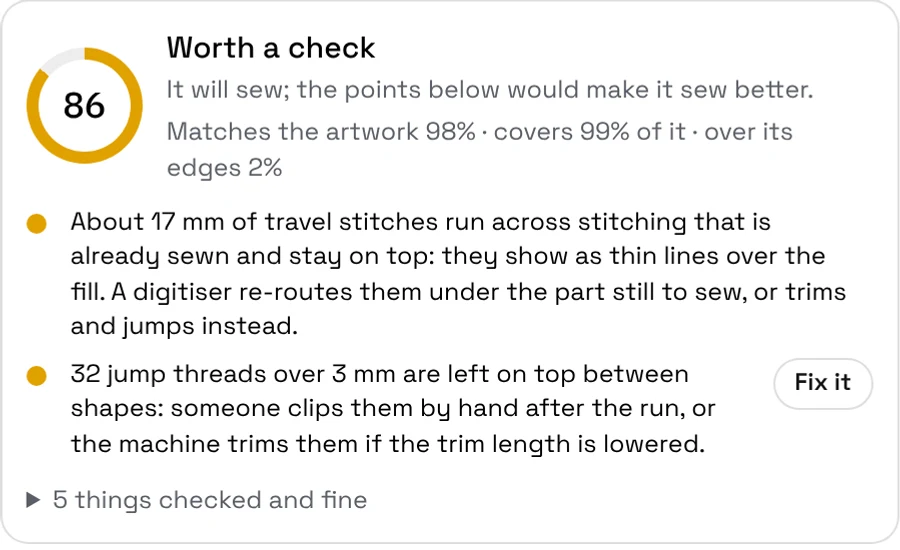
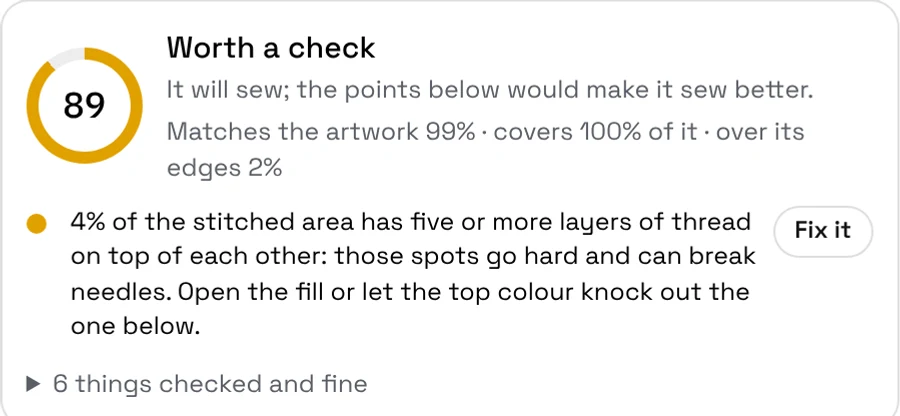
Embroidery: clean, straight edges and denser stitching by default
A distressed or scanned graphic's nicked, grainy edges were digitized as
they were, so satin borders and fill edges sewed ragged. Before cutting
shapes, the digitizer now cleans the artwork the way a digitiser redraws
it: a soft majority filter (0.3 mm) per thread, cracks and slivers under
0.45 mm folded into the colour round them, and specks under 1.5 mm².
A colour the clean-up would mostly erase (small lettering, a pinstripe)
is kept for the review. The ends of neighbouring rows are eased into a
line (at most 0.3 mm, so corners stay), and turning satin edges are
eased over about 0.8 mm.

Denser by default: fill rows 0.35 mm (was 0.40), satin rows 0.2 mm (was
0.22), satin up to 6 mm (was 7; wider strokes sew as fill). The studio's
embroidery window opens on these. On the demo crests the review goes
from 86 to 89, 48 to 72 and 72 to 86.

The Make page's sew-out video, review card and factory view are redone
with the new digitizer.

Claude-Session: https://claude.ai/code/session_017HhaG43tFnDLXHBBMSMfQq

diff --git a/src/lab-digitize.js b/src/lab-digitize.js
@@ -6,6 +6,10 @@
 //   Each plan point is { p: [x, y] } plus what it is: jump, trim, tie (a lock stitch), u (underlay), run (a travel run inside a shape), and o
 //   (the index of its shape in `objects`); the sew-out render and the review (src/lab-sewout.js) read these.
 // How a design is built:
+//   0. The artwork is cleaned the way a digitiser redraws it (`smoothMm`, 0 turns it off): each pixel goes to the thread most of its neighbourhood
+//      belongs to, so a distressed or scanned graphic's nicked, grainy edges sew as clean straight lines; cracks and slivers under 0.45 mm in a
+//      colour that covers a real area elsewhere are folded into their neighbour, and specks under 1.5 mm² go. A colour the clean-up would mostly
+//      erase is a fine detail of its own and is kept.
 //   1. The graphic is separated into thread colours (src/lab-separate.js): every colour that fills an area of its own, however small, keeps its
 //      thread; soft edges go to the nearer thread; a thread the colour of the garment is left unsewn (the garment shows through). Specks under
 //      0.6 mm² are folded into what surrounds them.
@@ -16,6 +20,7 @@
 //      stop at its edge, and at sharp corners, where one column runs through the corner and the next starts at its edge), and each column is walked with every stitch square to the line, its ends found by
 //      casting out to the shape's edge. The rows are spaced on the outside of a curve; on the inside, a needle point that would land on the last
 //      one is pulled in to a short stitch. When the centre line cannot be traced cleanly, the one angle is kept.
+//      The ends of neighbouring rows (fill and one-angle satin) are eased into a line, never more than 0.3 mm, so straight edges sew straight.
 //      Wider shapes are sewn as tatami fill: rows `rowMm` apart at `fillAngle`, needle points staggered over three rows so the fill shows no
 //      lines, over a tatami underlay at right angles, and the edges pushed out by the pull compensation.
 //   3. Shapes are cut into sections that can be sewn without crossing open ground, sewn nearest-first, each started and ended with a lock
@@ -24,12 +29,12 @@
 import sharp from 'sharp';
 import { separate } from './lab-separate.js';
 
-export const DIGITIZE_DEFAULTS = { widthIn: 4, rowMm: .4, satinSpacingMm: .22, stitchMm: 3.5, satinMaxMm: 7, splitMm: 7, pullMm: .2, underlay: true, fillAngle: 45, trimMm: 6, maxThreads: 12, garment: '' };
+export const DIGITIZE_DEFAULTS = { widthIn: 4, rowMm: .35, satinSpacingMm: .2, smoothMm: .3, stitchMm: 3.5, satinMaxMm: 6, splitMm: 7, pullMm: .2, underlay: true, fillAngle: 45, trimMm: 6, maxThreads: 12, garment: '' };
 
 // the settings from a request, each held to what a machine can sew
 export function digitizeOptions(b = {}) {
   const n = (v, a, z) => { const x = Number(v); return Number.isFinite(x) && v !== '' && v !== null ? Math.min(z, Math.max(a, x)) : undefined; };
-  return Object.fromEntries(Object.entries({ fillAngle: n(b.fillAngle, 0, 179), rowMm: n(b.rowMm, .25, 1), satinMaxMm: n(b.satinMaxMm, 2, 10), pullMm: n(b.pullMm, 0, .6), stitchMm: n(b.stitchMm, 2, 6), maxThreads: n(b.maxThreads, 1, 15), trimMm: n(b.trimMm, 1, 12), underlay: b.underlay === undefined ? undefined : Boolean(b.underlay) }).filter(([, v]) => v !== undefined));
+  return Object.fromEntries(Object.entries({ fillAngle: n(b.fillAngle, 0, 179), rowMm: n(b.rowMm, .25, 1), smoothMm: n(b.smoothMm, 0, 1), satinMaxMm: n(b.satinMaxMm, 2, 10), pullMm: n(b.pullMm, 0, .6), stitchMm: n(b.stitchMm, 2, 6), maxThreads: n(b.maxThreads, 1, 15), trimMm: n(b.trimMm, 1, 12), underlay: b.underlay === undefined ? undefined : Boolean(b.underlay) }).filter(([, v]) => v !== undefined));
 }
 
 // ---- shapes ----
@@ -56,6 +61,47 @@ function despeck(hard, W, H, minPx) {
     let best = -1, bv = 0; for (const [c, v] of votes) if (v > bv) { bv = v; best = c; }
     for (const p of r.px) hard[p] = best;
   }
+}
+// each pixel goes to the thread most of its neighbourhood belongs to (a majority over a soft round window, `r` px): a distressed or
+// scanned graphic has cracks, grain and nicks along its edges that a machine would sew as a ragged line; this leaves the edges clean and
+// straight where the artwork means them to be, and keeps any mark wider than about 2r
+function smoothLabels(hard, W, H, r) {
+  if (r < 1) return; const N = W * H, labels = [...new Set(hard)], best = new Float32Array(N).fill(-1), bestL = new Int16Array(N), a = new Float32Array(N), b = new Float32Array(N);
+  const blur = (src, dst, horiz) => { const len = horiz ? W : H, lines = horiz ? H : W, st = horiz ? 1 : W, ls = horiz ? W : 1, k = 2 * r + 1;
+    for (let l = 0; l < lines; l++) { const base = l * ls; let sum = 0; for (let i = -r; i <= r; i++) sum += src[base + Math.min(len - 1, Math.max(0, i)) * st];
+      for (let i = 0; i < len; i++) { dst[base + i * st] = sum / k; sum += src[base + Math.min(len - 1, i + r + 1) * st] - src[base + Math.max(0, i - r) * st]; } } };
+  for (const L of labels) {
+    for (let p = 0; p < N; p++) a[p] = hard[p] === L ? 1 : 0;
+    blur(a, b, true); blur(b, a, false); blur(a, b, true); blur(b, a, false); // two box passes: close to a gaussian, so corners round only a little
+    for (let p = 0; p < N; p++) { const v = a[p] + (hard[p] === L ? 1e-4 : 0); if (v > best[p]) { best[p] = v; bestL[p] = L; } }
+  }
+  // a colour the clean-up would mostly erase is a fine detail of its own (small lettering, a pinstripe), not grain: it keeps its pixels, and the
+  // review says if it is too small to sew
+  const before = new Map(), after = new Map(); for (let p = 0; p < N; p++) { before.set(hard[p], (before.get(hard[p]) || 0) + 1); after.set(bestL[p], (after.get(bestL[p]) || 0) + 1); }
+  const keep = new Set(labels.filter(L => (after.get(L) || 0) < .75 * before.get(L)));
+  for (let p = 0; p < N; p++) if (!keep.has(hard[p])) hard[p] = bestL[p];
+}
+// a sliver narrower than `minPx` (a crack, or grain left where two colours meet) cannot be sewn: it goes to the colour that borders it most,
+// as a digitiser would fold it into its neighbour. A colour with less than `bigPx` in all is a detail of its own and is left for the review
+function desliver(hard, W, H, minPx, bigPx) {
+  const regs = regionsOf(hard, W, H), total = new Map(); for (const r of regs) total.set(r.c, (total.get(r.c) || 0) + r.n);
+  for (const r of regs) {
+    if (r.c < 0 || total.get(r.c) < bigPx || widthOf(r, W).width >= minPx) continue; // only the cracks and grain of a colour that covers a real area elsewhere const votes = new Map();
+    for (const p of r.px) { const x = p % W; for (const q of [p - 1, p + 1, p - W, p + W]) { if (q < 0 || q >= W * H || (q === p - 1 && x === 0) || (q === p + 1 && x === W - 1)) continue; const c = hard[q]; if (c !== r.c) votes.set(c, (votes.get(c) || 0) + 1); } }
+    let best = r.c, bv = 0; for (const [c, v] of votes) if (v > bv) { bv = v; best = c; }
+    for (const p of r.px) hard[p] = best;
+  }
+}
+// the ends of neighbouring rows eased into a line: a row's end moves to the median of the five around it, then the mean of three, but never
+// further than `maxPx`, so a straight edge sews straight and a real corner stays a corner
+function easeRows(rows, maxPx) {
+  if (rows.length < 3) return;
+  for (const k of [0, 1]) {
+    const v = rows.map(q => q.r[k]), md = v.map((_, i) => { const w = v.slice(Math.max(0, i - 2), i + 3).sort((x, y) => x - y); return w[w.length >> 1]; });
+    const mn = md.map((_, i) => { const w = md.slice(Math.max(0, i - 1), i + 2); return w.reduce((x, y) => x + y, 0) / w.length; });
+    rows.forEach((q, i) => { const t = Math.abs(mn[i] - v[i]) <= maxPx ? mn[i] : v[i] + Math.sign(mn[i] - v[i]) * maxPx; q.r = k ? [q.r[0], t] : [t, q.r[1]]; });
+  }
+  for (const q of rows) if (q.r[1] < q.r[0]) q.r = [(q.r[0] + q.r[1]) / 2, (q.r[0] + q.r[1]) / 2];
 }
 // the widest point of a shape (twice its deepest inside distance), in pixels: a two-pass chamfer distance inside the shape's box
 function widthOf(r, W) {
@@ -199,7 +245,7 @@ function corners(cl, depth) {
 // one column of turning satin as needle points (px): its centre line smoothed and walked, at each step a ray out to either edge along the
 // normal, a row each time an edge has moved on by `step`; the needle alternates edges. With the underlay, a walk along the centre line first
 // and the satin back over it. → { pts, nu (the underlay's points, first) } or null
-function turningColumn(cl, inside, depth, { step, pullPx, splitPx, underlay, walkPx, gapPx }) {
+function turningColumn(cl, inside, depth, { step, pullPx, splitPx, underlay, walkPx, gapPx, easePx = step * 4 }) {
   let P = cl.pts; if (P.length < 3) return null;
   const n0 = P.length, cyc = cl.closed, r = Math.max(2, Math.round(Math.min(12, depth(P[n0 >> 1]) * .7))), fs = step / 3;
   for (let pass = 0; pass < 2; pass++) P = P.map((_, i) => { let sx = 0, sy = 0, c = 0; const k = cyc ? r : Math.min(r, i, n0 - 1 - i); for (let j = -k; j <= k; j++) { const q = P[cyc ? (i + j + n0) % n0 : i + j]; sx += q[0]; sy += q[1]; c++; } return [sx / c, sy / c]; });
@@ -227,7 +273,10 @@ function turningColumn(cl, inside, depth, { step, pullPx, splitPx, underlay, wal
     if (k) { C.push(...ext); T.push(...ext.map(() => t)); AB.push(...ab); } else { C.unshift(...ext.reverse()); T.unshift(...ext.map(() => t)); AB.unshift(...ab.reverse()); } }
   // the edges eased along the column (the shape's edge is a staircase of pixels), then the rows: the next one where either edge has moved on
   // by the satin spacing, so the outside of a curve is as dense as a straight column
-  const N = C.length, sm = AB.map((_, i) => { let a = 0, b = 0, c = 0; for (let j = -4; j <= 4; j++) { const q = AB[cyc ? (i + j + N) % N : i + j]; if (q) { a += q[0]; b += q[1]; c++; } } return [a / c, b / c]; });
+  // over about 0.8 mm each way: a median first, so a nick in the artwork's edge does not pull the column in, then a mean, so the edge runs smooth
+  const N = C.length, kw = Math.max(4, Math.round(easePx / fs)), win = (arr, i, f) => { const v = []; for (let j = -kw; j <= kw; j++) { const q = arr[cyc ? (i + j + N) % N : i + j]; if (q) v.push(f(q)); } return v; };
+  const mdAB = AB.map((_, i) => [0, 1].map(k => { const v = win(AB, i, q => q[k]).sort((x, y) => x - y); return v[v.length >> 1]; }));
+  const sm = mdAB.map((_, i) => [0, 1].map(k => { const v = win(mdAB, i, q => q[k]); return v.reduce((x, y) => x + y, 0) / v.length; }));
   const edges = [], mix = (p, q, f) => [p[0] + (q[0] - p[0]) * f, p[1] + (q[1] - p[1]) * f], adv = (e, k) => Math.max(Math.hypot(e.L[0] - k.L[0], e.L[1] - k.L[1]), Math.hypot(e.R[0] - k.R[0], e.R[1] - k.R[1]));
   let kept = null, pv = null;
   for (let i = 0; i < N; i++) { const c = C[i], nv = [-T[i][1], T[i][0]], [a, b] = sm[i]; if (a + b < 1) continue;
@@ -308,7 +357,9 @@ export async function digitize(png, opts = {}) {
   const { data } = await sharp(png).ensureAlpha().resize(W, H, { fit: 'fill' }).raw().toBuffer({ resolveWithObject: true });
   const sep = separate(data, W, H, { max: o.maxThreads, garment: o.garment, softPx: 2 });
   const hard = sep.hard; for (let p = 0; p < W * H; p++) if (hard[p] >= 0 && sep.inks[hard[p]].knockout) hard[p] = -1;
-  despeck(hard, W, H, Math.round(.6 * mmPx * mmPx));
+  smoothLabels(hard, W, H, Math.round((o.smoothMm || 0) * mmPx));
+  despeck(hard, W, H, Math.round((o.smoothMm ? 1.5 : .6) * mmPx * mmPx)); // with the clean-up on, specks of distress and grain under 1.5 mm² go too
+  if (o.smoothMm) desliver(hard, W, H, .45 * mmPx, 50 * mmPx * mmPx);
   const regs = regionsOf(hard, W, H), area = new Array(sep.inks.length).fill(0), label = new Int32Array(W * H).fill(-1);
   regs.forEach((r, i) => { area[r.c] += r.n; for (const p of r.px) label[p] = i; });
   const order = sep.inks.map((_, j) => j).filter(j => area[j] > 0).sort((a, b) => area[b] - area[a]);
@@ -322,14 +373,14 @@ export async function digitize(png, opts = {}) {
       const ang = crossAngle(mask, W, H, box, o.satinSpacingMm * mmPx), sc = scan(mask, W, H, box, ang, o.satinSpacingMm * mmPx, .5);
       // one angle serves a straight stroke; where its rows run along the stroke (a curve, a ring) the satin turns with the stroke instead
       let longest = 0; for (const l of sc.lines) for (const q of l.runs) longest = Math.max(longest, q[1] - q[0]);
-      const turn = longest > 1.5 * width + 2 && turning(dt, { step: o.satinSpacingMm * mmPx, pullPx: o.pullMm * mmPx, splitPx: o.splitMm * mmPx, underlay: o.underlay && widthMm > 1.2, walkPx: 2 * mmPx, gapPx: .15 * mmPx }, longest);
+      const turn = longest > 1.5 * width + 2 && turning(dt, { step: o.satinSpacingMm * mmPx, pullPx: o.pullMm * mmPx, splitPx: o.splitMm * mmPx, underlay: o.underlay && widthMm > 1.2, walkPx: 2 * mmPx, gapPx: .15 * mmPx, easePx: (o.smoothMm ? .8 : .27) * mmPx }, longest);
       if (turn) { shape.parts.push(...turn); shape.turning = true; }
-      else for (const s of sections(sc)) { const ul = o.underlay && widthMm > 1.2 && s.rows.length > 2, pts = satinSection(s, sc, { pullPx: o.pullMm * mmPx, splitPx: o.splitMm * mmPx, underlay: ul, walkPx: 2 * mmPx }); if (pts.length > 1) shape.parts.push({ pts, under: false, rev: !ul, nu: pts.nu || 0 }); }
+      else for (const s of sections(sc)) { easeRows(s.rows, .3 * mmPx); const ul = o.underlay && widthMm > 1.2 && s.rows.length > 2, pts = satinSection(s, sc, { pullPx: o.pullMm * mmPx, splitPx: o.splitMm * mmPx, underlay: ul, walkPx: 2 * mmPx }); if (pts.length > 1) shape.parts.push({ pts, under: false, rev: !ul, nu: pts.nu || 0 }); }
       shape.angle = ang;
     } else {
-      if (o.underlay) { const sc = scan(mask, W, H, box, o.fillAngle + 90, 2 * mmPx, .5); for (const s of sections(sc)) { const pts = fillSection(s, sc, { lenPx: 3 * mmPx, pullPx: 0, inset: .5 * mmPx }); if (pts.length > 1) shape.parts.push({ pts, under: true, rev: true }); } }
+      if (o.underlay) { const sc = scan(mask, W, H, box, o.fillAngle + 90, 2 * mmPx, .5); for (const s of sections(sc)) { easeRows(s.rows, .3 * mmPx); const pts = fillSection(s, sc, { lenPx: 3 * mmPx, pullPx: 0, inset: .5 * mmPx }); if (pts.length > 1) shape.parts.push({ pts, under: true, rev: true }); } }
       const sc = scan(mask, W, H, box, o.fillAngle, o.rowMm * mmPx, .5);
-      for (const s of sections(sc)) { const pts = fillSection(s, sc, { lenPx: o.stitchMm * mmPx, pullPx: o.pullMm * .75 * mmPx }); if (pts.length > 1) shape.parts.push({ pts, under: false, rev: true }); }
+      for (const s of sections(sc)) { easeRows(s.rows, .3 * mmPx); const pts = fillSection(s, sc, { lenPx: o.stitchMm * mmPx, pullPx: o.pullMm * .75 * mmPx }); if (pts.length > 1) shape.parts.push({ pts, under: false, rev: true }); }
       shape.angle = o.fillAngle;
     }
     for (const p of r.px) mask[p] = 0;

diff --git a/test/lab-digitize.test.js b/test/lab-digitize.test.js
@@ -118,19 +118,20 @@ test('turning satin: a ring and an S curve are sewn square to the stroke all the
 
 test('turning satin: a straight bar keeps its one angle, and branches and corners become columns of their own', async () => {
   const bar = await digitize(await svg('<svg xmlns="http://www.w3.org/2000/svg" width="800" height="400"><rect x="60" y="180" width="680" height="30" fill="#c8202a"/></svg>'), { widthIn: 4 });
-  assert.equal(bar.objects[0].angle, 90); assert.ok(!bar.objects[0].turning); assert.ok(bar.stats.stitches > 400 && bar.stats.stitches < 480, String(bar.stats.stitches));
+  assert.equal(bar.objects[0].angle, 90); assert.ok(!bar.objects[0].turning); assert.ok(bar.stats.stitches > 440 && bar.stats.stitches < 530, String(bar.stats.stitches)); // satin rows 0.2 mm apart
   // an arch with a post through it and a crossbar: every column follows its own stroke, none of them runs along another
   const arcs = await digitize(await svg('<svg xmlns="http://www.w3.org/2000/svg" width="800" height="800"><path d="M100 600 Q 400 0 700 600" fill="none" stroke="#a00" stroke-width="26"/><path d="M100 700 L 700 700" stroke="#a00" stroke-width="26"/><path d="M400 300 L 400 760" stroke="#a00" stroke-width="20"/></svg>'), { widthIn: 4 });
   assert.equal(arcs.objects.length, 1); assert.ok(arcs.objects[0].turning); assert.ok(longestSatin(arcs) <= 16 * arcs.objects[0].widthMm, String(longestSatin(arcs)));
   // a square-cornered letter: the corner is butted, not fanned (no stitch wider than the stroke allows)
-  const f = await digitize(await svg('<svg xmlns="http://www.w3.org/2000/svg" width="600" height="600"><path d="M150 520 V 80 H 450 M 150 300 H 380" fill="none" stroke="#111" stroke-width="40"/></svg>'), { widthIn: 3 });
+  const f = await digitize(await svg('<svg xmlns="http://www.w3.org/2000/svg" width="600" height="600"><path d="M150 520 V 80 H 450 M 150 300 H 380" fill="none" stroke="#111" stroke-width="40"/></svg>'), { widthIn: 3, satinMaxMm: 7 }); // 6 mm across where the bars meet: over the 6 mm satin default
   assert.equal(f.objects.length, 1); assert.equal(f.objects[0].kind, 'satin'); assert.ok(f.objects[0].turning); assert.ok(longestSatin(f) <= 16 * f.objects[0].widthMm, String(longestSatin(f)));
 });
 
 test('turning satin: the counters of letters (B, O, A, e) stay open, at badge size and at an inch', async () => {
   const art = await svg('<svg xmlns="http://www.w3.org/2000/svg" width="1000" height="400"><text x="500" y="300" font-family="DejaVu Sans" font-weight="bold" font-size="300" text-anchor="middle" fill="#e8b923">BOAe</text></svg>');
   for (const widthIn of [4, 1.2]) {
-    const d = await digitize(art, { widthIn }); assert.ok(d.objects.filter(o => o.turning).length >= 2, `${widthIn} in: ${d.objects.map(o => o.kind + (o.turning ? ' turning' : '')).join()}`);
+    // at 4 in the strokes are over the 6 mm satin default, so satin is asked for up to 7 mm
+    const d = await digitize(art, { widthIn, satinMaxMm: 7 }); assert.ok(d.objects.filter(o => o.turning).length >= 2, `${widthIn} in: ${d.objects.map(o => o.kind + (o.turning ? ' turning' : '')).join()}`);
     // the art on a 0.05 mm grid: its counters (the pieces of ground the letters close round) and how far each point of ground is from a letter
     const pr = .05, W = Math.round(d.widthMm / pr), H = Math.round(d.heightMm / pr), { data } = await sharp(art).flatten({ background: '#ffffff' }).resize(W, H).raw().toBuffer({ resolveWithObject: true });
     const ink = new Uint8Array(W * H), seen = new Uint8Array(W * H), dist = new Float32Array(W * H), counters = [];
@@ -150,3 +151,18 @@ test('turning satin: the counters of letters (B, O, A, e) stay open, at badge si
     for (const c of counters) { const over = c.filter(p => lay[p] && dist[p] > beyond).length / c.length; assert.ok(over < .05, `${widthIn} in: ${(over * 100).toFixed(1)}% of a ${(c.length * pr * pr).toFixed(1)} mm² counter sewn over`); }
   }
 });
+
+test('a distressed graphic sews with clean, straight edges: cracks, nicks and specks are not stitched', async () => {
+  // a block whose edges are nicked every few pixels, with hairline cracks and specks of ground inside it: the way a vintage, cracked print looks
+  let nicks = '', cracks = ''; for (let x = 100; x < 700; x += 9) nicks += `<rect x="${x}" y="${x % 2 ? 98 : 100}" width="5" height="${3 + (x % 4)}" fill="#ffffff"/><rect x="${x + 2}" y="${497 - (x % 3)}" width="4" height="${3 + (x % 3)}" fill="#ffffff"/>`;
+  for (let k = 0; k < 14; k++) cracks += `<path d="M${140 + k * 38} ${160 + (k % 5) * 50} l 26 ${k % 2 ? 18 : -14} l 20 9" stroke="#ffffff" stroke-width="1.5" fill="none"/><circle cx="${170 + k * 36}" cy="${300 + (k % 4) * 40}" r="2" fill="#ffffff"/>`;
+  const art = await svg(`<svg xmlns="http://www.w3.org/2000/svg" width="800" height="600"><rect x="100" y="100" width="600" height="400" fill="#b0181f"/>${nicks}${cracks}</svg>`);
+  const ends = d => { const top = []; for (const b of d.plan) for (const q of b.pts) if (!q.u && !q.jump && !q.trim && !q.run && !q.tie) top.push(q.p); const ys = top.map(p => p[1]), lo = Math.min(...ys); return top.filter(p => p[1] < lo + 12).map(p => p[1]); };
+  const spread = v => { const s = v.slice().sort((a, b) => a - b); return s[Math.floor(s.length * .9)] - s[Math.floor(s.length * .1)]; };
+  const clean = await digitize(art, { widthIn: 4 }), raw = await digitize(art, { widthIn: 4, smoothMm: 0 });
+  assert.equal(clean.objects.length, 1, JSON.stringify(clean.objects.map(o => [o.kind, o.areaMm2]))); // one fill: no cracks or specks sewn as shapes of their own
+  assert.ok(clean.settings.rowMm === .35 && clean.settings.satinSpacingMm === .2, 'denser by default'); // fill rows 0.35 mm apart, satin 0.2 mm
+  assert.ok(spread(ends(clean)) <= 4, `the top edge wanders ${spread(ends(clean)) / 10} mm`); // the needle points along the top edge lie within 0.4 mm of a line
+  assert.ok(spread(ends(clean)) < spread(ends(raw)), `cleaned ${spread(ends(clean))} vs raw ${spread(ends(raw))}`);
+});
+

diff --git a/src/lab-studio.html b/src/lab-studio.html
@@ -246,7 +246,7 @@ html,body{touch-action:manipulation}
   <div class="embgrid"><div style="display:grid;gap:8px;align-content:start"><div class="embprev"><img id="embImg" alt="The design sewn out"><p class="note" id="embWait">Digitizing…</p></div><p class="note" style="margin:0">Each stitch drawn as thread on the garment colour. Satin columns cross lettering and thin shapes; wide areas are tatami fill over an underlay.</p></div>
   <div style="display:grid;gap:10px;align-content:start">
     <div class="grid2"><label class="f"><span>Width (in)</span><input class="t" id="embW" type="number" min="0.5" max="16" step="0.05"></label><label class="f"><span>Fill angle</span><select class="t" id="embAngle"><option value="45">45°</option><option value="135">135°</option><option value="0">Across (0°)</option><option value="90">Up and down (90°)</option></select></label></div>
-    <div class="grid2"><label class="f"><span>Fill density</span><select class="t" id="embRow"><option value="0.35">Dense · 0.35 mm rows</option><option value="0.4" selected>Standard · 0.40 mm</option><option value="0.5">Light · 0.50 mm</option><option value="0.6">Open · 0.60 mm</option></select></label><label class="f"><span>Satin up to</span><select class="t" id="embSatin"><option value="5">5 mm wide</option><option value="7" selected>7 mm wide</option><option value="9">9 mm wide</option></select></label></div>
+    <div class="grid2"><label class="f"><span>Fill density</span><select class="t" id="embRow"><option value="0.35" selected>Dense · 0.35 mm rows</option><option value="0.4">Standard · 0.40 mm</option><option value="0.5">Light · 0.50 mm</option><option value="0.6">Open · 0.60 mm</option></select></label><label class="f"><span>Satin up to</span><select class="t" id="embSatin"><option value="5">5 mm wide</option><option value="6" selected>6 mm wide</option><option value="7">7 mm wide</option><option value="9">9 mm wide</option></select></label></div>
     <div class="grid2"><label class="f"><span>Pull compensation</span><select class="t" id="embPull"><option value="0">None</option><option value="0.15">0.15 mm (wovens)</option><option value="0.2" selected>0.20 mm</option><option value="0.3">0.30 mm (knits, fleece)</option></select></label><label class="f"><span>Underlay</span><select class="t" id="embUnder"><option value="1" selected>Yes: tatami under fills, centre walk under satin</option><option value="0">No</option></select></label></div>
     <div class="row"><button class="btn sm" type="button" id="embRun">Digitize again</button></div>
     <div id="embStats" class="note" style="margin:0"></div>

diff --git a/docs/design-lab.md b/docs/design-lab.md
@@ -566,8 +566,8 @@ These turn a graphic into something a decorator can quote and make. The rules an
 - **Vector and embroidery files** (`src/lab-vector.js`).
   - **Vector (SVG)** traces each ink of a graphic to filled paths, at its width in inches, with its Pantone, for a screen printer or Illustrator.
   - **Embroidery file…** digitizes the graphic for an embroidery machine (`src/lab-digitize.js`) and opens the embroidery window: the design sewn out as thread on the garment colour, the stitches, size, threads and colour changes, trims and minutes a piece, the thread sequence with each thread's Pantone and stitches, and the warnings.
-    - How it is built: each colour is cut into shapes. A shape no wider than the satin limit (7 mm) is satin: stitches cross it edge to edge over a centre-walk underlay, longer stitches split. A straight stroke takes one angle, the one that crosses it shortest; a curved one (a ring, an O, script, an arc) gets turning satin: the shape is thinned to its centre line, cut into columns at junctions (a stroke that runs straight through one stays one column, the others stop at its edge) and at sharp corners (one column runs through the corner and the next starts at its edge, so the corner is sewn once and not fanned), and every stitch is laid square to the line as it curves, spaced on the outside of the curve, with short stitches on the inside so it does not bunch. If the centre line cannot be traced cleanly the shape keeps one angle. Wider shapes are tatami fill: 0.4 mm rows at 45°, needle points staggered so no lines show, over a tatami underlay at right angles. Both edges are pushed out by the pull compensation. Shapes are sewn nearest-first; a move inside the same shape runs underneath in small stitches, any other move jumps with a lock stitch either side, and a long one trims. Specks under 0.6 mm² are folded into what surrounds them; a thread the colour of the garment is not sewn.
-    - The settings: width, fill angle, fill density (dense 0.35 mm to open 0.6 mm), satin up to 5, 7 or 9 mm, pull compensation (none to 0.3 mm for knits and fleece), underlay on or off. Changing one digitizes again.
+    - How it is built: first the artwork is cleaned the way a digitiser redraws it. Each pixel goes to the thread most of its neighbourhood (about 0.3 mm round) belongs to, so a distressed, cracked or scanned graphic's nicked and grainy edges become clean, straight ones. Cracks and slivers under 0.45 mm wide in a colour that covers a real area elsewhere are folded into the colour round them, and specks under 1.5 mm² go too. A colour the clean-up would mostly erase (small lettering, a pinstripe) is a detail of its own and is kept for the review to judge. Then each colour is cut into shapes. A shape no wider than the satin limit (6 mm) is satin: stitches cross it edge to edge over a centre-walk underlay, longer stitches split. A straight stroke takes one angle, the one that crosses it shortest; a curved one (a ring, an O, script, an arc) gets turning satin: the shape is thinned to its centre line, cut into columns at junctions (a stroke that runs straight through one stays one column, the others stop at its edge) and at sharp corners (one column runs through the corner and the next starts at its edge, so the corner is sewn once and not fanned), and every stitch is laid square to the line as it curves, spaced on the outside of the curve, with short stitches on the inside so it does not bunch. The edges of a column are eased over about 0.8 mm (a median, then a mean), so a satin border runs smooth. If the centre line cannot be traced cleanly the shape keeps one angle. Wider shapes are tatami fill: 0.35 mm rows at 45°, needle points staggered so no lines show, over a tatami underlay at right angles. The ends of neighbouring rows are eased into a line (never more than 0.3 mm, so a real corner stays a corner), so fill and one-angle satin edges sew straight. Satin rows are 0.2 mm apart. Both edges are pushed out by the pull compensation. Shapes are sewn nearest-first; a move inside the same shape runs underneath in small stitches, any other move jumps with a lock stitch either side, and a long one trims. A thread the colour of the garment is not sewn.
+    - The settings: width, fill angle, fill density (dense 0.35 mm, the default, to open 0.6 mm), satin up to 5, 6 (the default), 7 or 9 mm, pull compensation (none to 0.3 mm for knits and fleece), underlay on or off. Changing one digitizes again.
     - **What the machine will make, without a digitiser** (`src/lab-sewout.js`, the window's part is `src/lab-studio-emb.js`):
       - **Sewn:** every stitch drawn as thread about 0.42 mm thick, lit as a cylinder with its sheen and ply twist; satin raised over its underlay, fill flatter; the shadow it casts on the cloth. The cloth is the garment colour as a knit, fleece, twill or woven (the Fabric choice). Jumps and trims are not drawn. It comes back as a JPEG, about 1 s for a 10,000-stitch logo.
       - **Sewing:** the stitches played back in the order the machine sews them, colour by colour, with the needle shown, the stitch and thread it is on and the minutes in at 750 a minute. Pause and drag to any stitch. The stream is `frames` (base64 Int16 x, y, flag in 0.1 mm; 0 stitch, 1 jump, 2 trim, 3 colour change).

diff --git a/docs/make-page-update/README.md b/docs/make-page-update/README.md
@@ -32,7 +32,7 @@ The screenshots are real screens from the live Lab, taken signed in to the Futur
 
 Numbers on the page (26 bases, 31 add-ons, 382 sketches, prices) are the same as `docs/marketing/video-brief.md`. Update both when they change.
 
-The sew-out video (`make-sewout.mp4`) is in the store's Files (Content → Files) and the section loads it with `file_url`. The demo pieces in the screenshots (the Lane Six hoodie and the Future Tour tee) carry real Future Basics graphics from the Lab's library; they were made, separated and digitized on a local copy of the app.
+The sew-out video (`make-sewout-v2.mp4`) is in the store's Files (Content → Files) and the section loads it with `file_url`. The demo pieces in the screenshots (the Lane Six hoodie and the Future Tour tee) carry real Future Basics graphics from the Lab's library; they were made, separated and digitized on a local copy of the app.
 
 ## To publish
 
